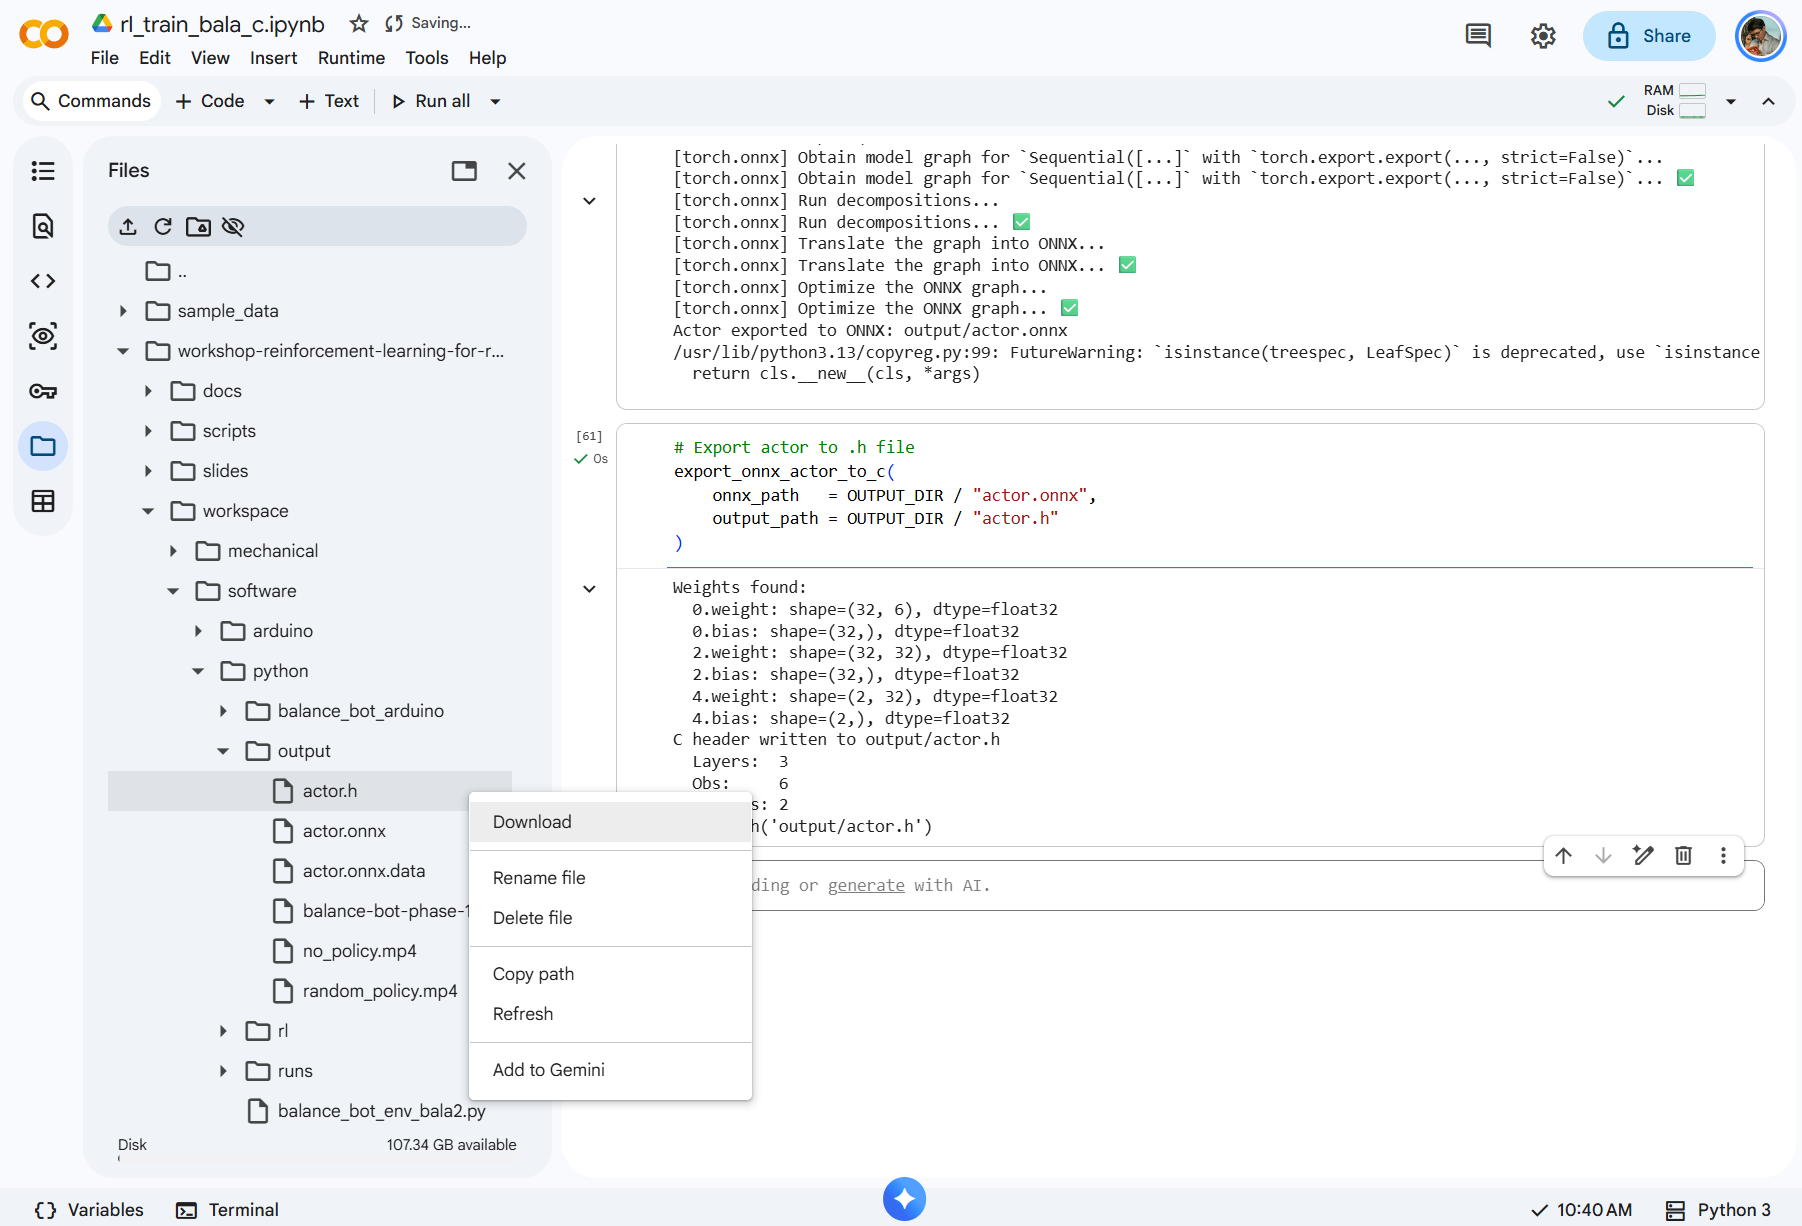
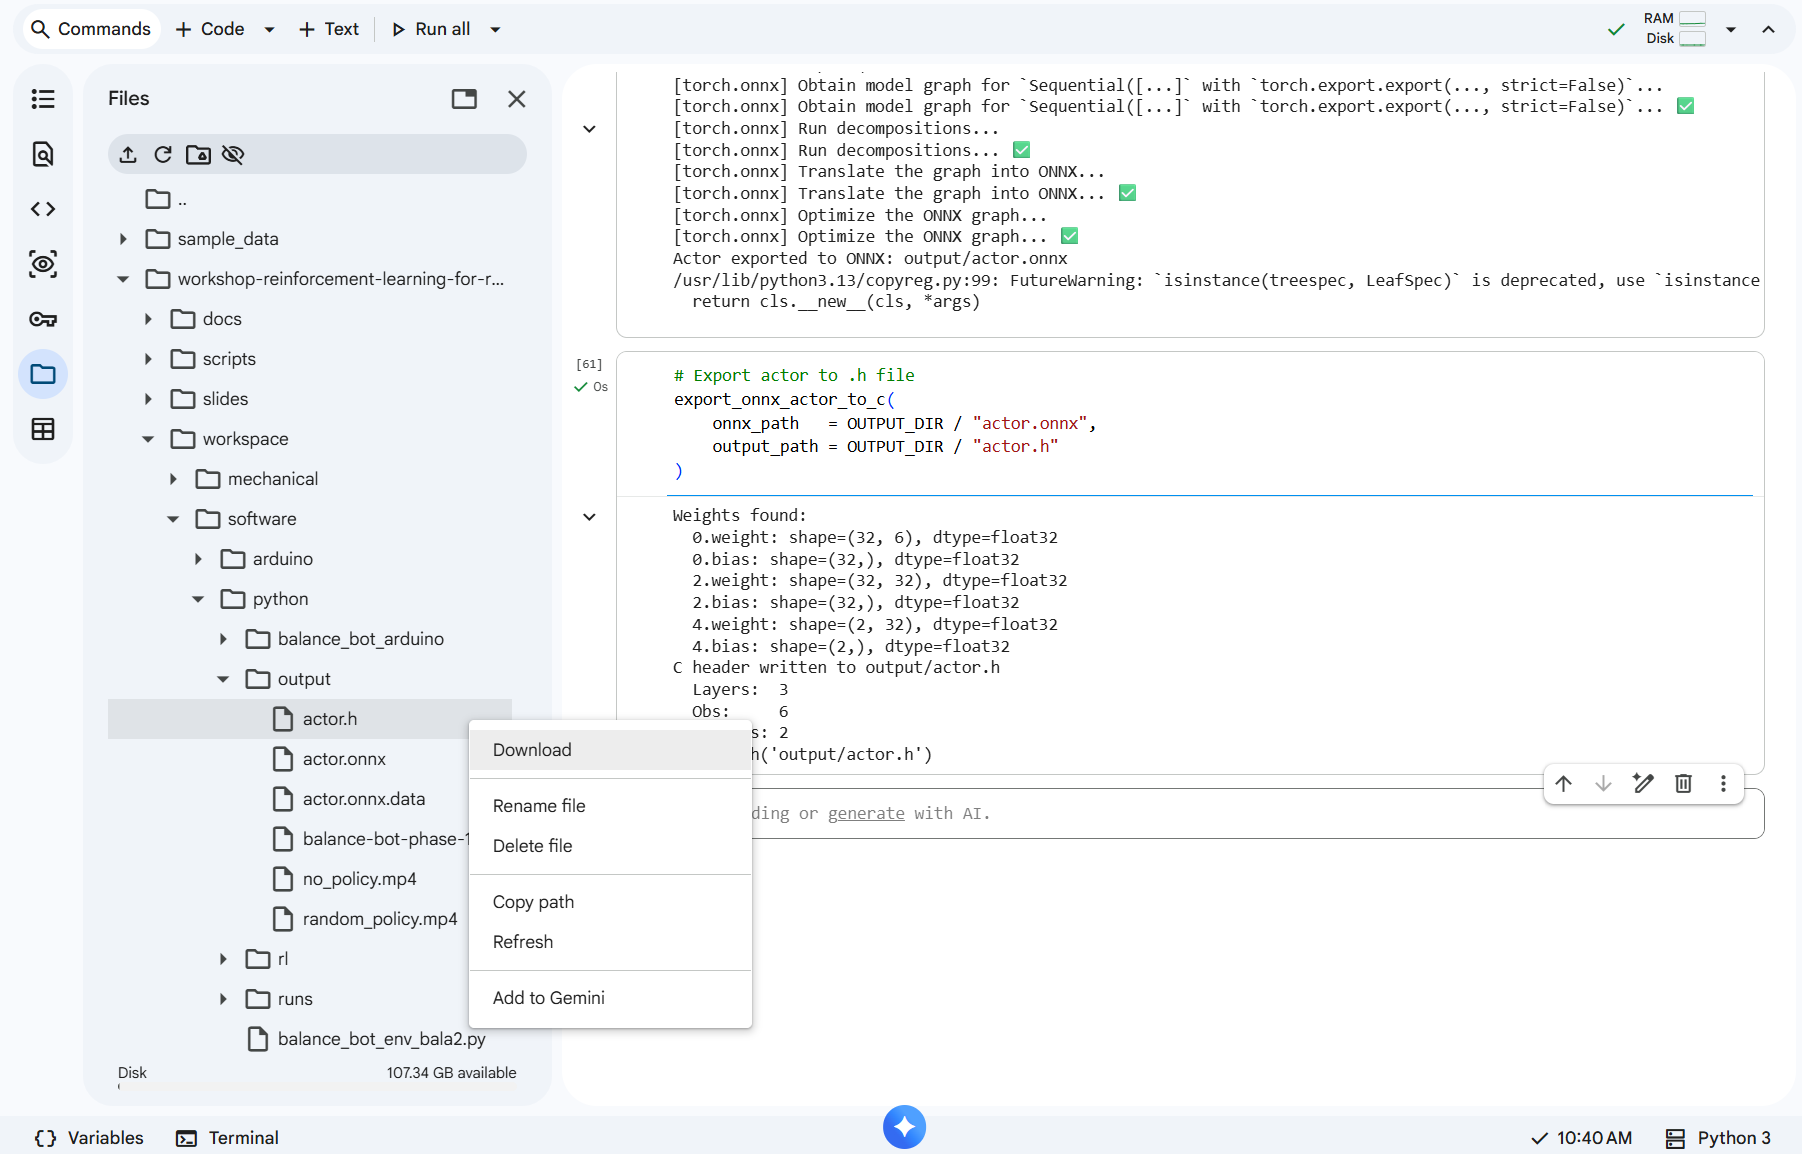
tutorial tweaks

diff --git a/docs/bala2-tutorial.md b/docs/bala2-tutorial.md
@@ -57,7 +57,11 @@ In the *Library Manager*, search for and install the following libraries:
  * **M5GFX**
  * **M5Unified**
 
-Connect the balance bot to your computer using a USB cable. Upload the *balance_bot_bala2.ino* sketch to the robot. Once complete, unplug the USB cable from the robot, carefully set the robot upright on a smooth, level surface, and let it go.
+Connect the balance bot to your computer using a USB cable. Go to **Tools > Board > M5Stack** and select the **M5Fire** board option. Select the serial port associated with your robot.
+
+<img src="../.images/arduino-board-bala2.png" alt="Select the M5Stack board in Arduino">
+
+Press the **Upload** button to compile and upload the sketch to the robot. Once complete, unplug the USB cable from the robot, carefully set the robot upright on a smooth, level surface, and let it go.
 
 ## Going Further
 

diff --git a/docs/bala-c-tutorial.md b/docs/bala-c-tutorial.md
@@ -2,7 +2,7 @@
 # Bala2 Fire Balance Bot Tutorial
 
 <p align="center">
-    <img src="../.images/bala2-fire.jpg" alt="M5Stack Bala2 Fire robot kit" height="300">
+    <img src="../.images/bala-c-plus.jpg" alt="M5Stack Bala2 Fire robot kit" height="300">
 <p align="center">
 
 Welcome to the Reinforcement Learning for Robotics workshop for the [Bala2 Fire balance bot](https://www.digikey.com/en/products/detail/m5stack-technology-co-ltd/K014-E/16679752).
